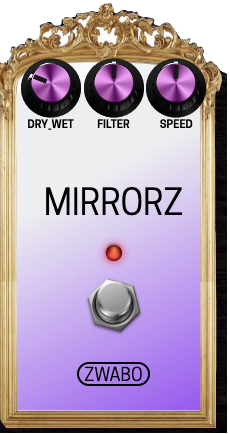
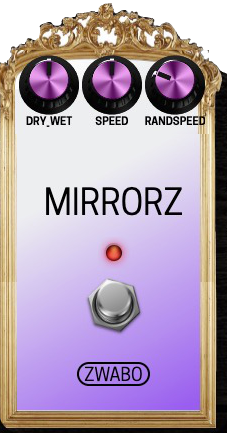
zwabo-mirrorz: zwabo's fixed modgui (ENV select + 3 knobs), new screenshot
zwabo's updated modgui.ttl maps ENV, dry_wet, speed and RandSpeed to his
1-select-3-knobs template, so DRY_WET shows again. Drop the 3-knob
workaround and use his HTML as shipped. Keep the zwabo:mirrorz URI and
the MIRRORZz.pdf documentation link. Tested on the Dwarf.

Changed region(s): [[0.0609, 0.0899, 0.913, 0.3295], [0.5478, 0.0, 0.5783, 0.03]]

diff --git a/custom-ttl/zwabo-mirrorz/modgui/icon-mirrorzz.html b/custom-ttl/zwabo-mirrorz/modgui/icon-mirrorzz.html
@@ -3,13 +3,37 @@
     <div class="mod-plugin-brand"><h1>{{brand}}</h1></div>
     <div class="mod-plugin-name"><h1>{{label}}</h1></div>
     <div class="mod-light on" mod-role="bypass-light"></div>
-    <div class="mod-control-group mod-{{knob}} clearfix">
-        {{#controls}}
+    <div class="mod-control-group mod-enumerated-group bottom clearfix">
+        {{#controls.0}}
+        <div class="mod-enumerated" mod-role="input-control-port" mod-port-symbol="{{symbol}}" mod-widget="custom-select">
+          <div mod-role="input-control-value" mod-port-symbol="{{symbol}}" class="mod-enumerated-selected"></div>
+          <div class="mod-enumerated-list">
+            {{#scalePoints}}
+            <div mod-role="enumeration-option" mod-port-value="{{value}}">{{label}}</div>
+            {{/scalePoints}}
+          </div>
+        </div>
+        {{/controls.0}}
+    </div>
+    <div class="mod-control-group mod-{{knob}} top clearfix">
+        {{#controls.1}}
         <div class="mod-knob" title="{{comment}}">
             <div class="mod-knob-image" mod-role="input-control-port" mod-port-symbol="{{symbol}}"></div>
             <span class="mod-knob-title">{{name}}</span>
         </div>
-        {{/controls}}
+        {{/controls.1}}
+        {{#controls.2}}
+        <div class="mod-knob" title="{{comment}}">
+            <div class="mod-knob-image" mod-role="input-control-port" mod-port-symbol="{{symbol}}"></div>
+            <span class="mod-knob-title">{{name}}</span>
+        </div>
+        {{/controls.2}}
+        {{#controls.3}}
+        <div class="mod-knob" title="{{comment}}">
+            <div class="mod-knob-image" mod-role="input-control-port" mod-port-symbol="{{symbol}}"></div>
+            <span class="mod-knob-title">{{name}}</span>
+        </div>
+        {{/controls.3}}
     </div>
     <div class="mod-footswitch" mod-role="bypass"></div>
     <div class="mod-pedal-input">

diff --git a/CLAUDE-LOG.md b/CLAUDE-LOG.md
@@ -25,3 +25,19 @@ Contributor log for this repo (see `mod-publishing-ops/CLAUDE.md`, "Contributor 
   layout). João is asking zwabo for new files (knob placement, other controls, updated
   screenshot/thumbnail). The builder recipe (`MAX_GEN_ZWABO_VERSION`) isn't bumped yet, since that
   needs this branch pushed and merged upstream. Not published.
+
+## 2026-10-16 — João (joao@mod.audio), MacBook — MIRRORZz GUI: zwabo's fixed modgui, hold lifted
+
+- zwabo sent an updated `modgui.ttl` and screenshot (his HTML and CSS are unchanged). The new
+  `modgui.ttl` lists 4 ports (ENV, dry_wet, speed, RandSpeed), matching his 1-select + 3-knobs
+  template, which fixes the missing DRY_WET.
+- Reverted the 2026-10-14 3-knob workaround: zwabo's original `icon-mirrorzz.html` again, his
+  `modgui.ttl` (`modgui:panel "1-select-3-knobs"`) with only the URI kept as
+  `urn:maxgen:zwabo:mirrorz` and the `modgui:documentation` line for `MIRRORZz.pdf`, and his new
+  screenshot (DRY_WET · SPEED · RANDSPEED). FILTER is no longer a GUI knob but is still a port.
+- Rebuilt for Dwarf, Duo X and Duo (the Duo reuses the Dwarf's `manifest.ttl`, because ttl
+  generation can't run for armhf). Installed on João's Dwarf via `/sdk/install`. João checked the
+  GUI: correct.
+- Still local only (no push access). Next: push + PR, bump `MAX_GEN_ZWABO_VERSION` in
+  mod-plugin-builder, then João's beta-or-not call and Gianfranco's OK to replace the live
+  plugin. Not published.
